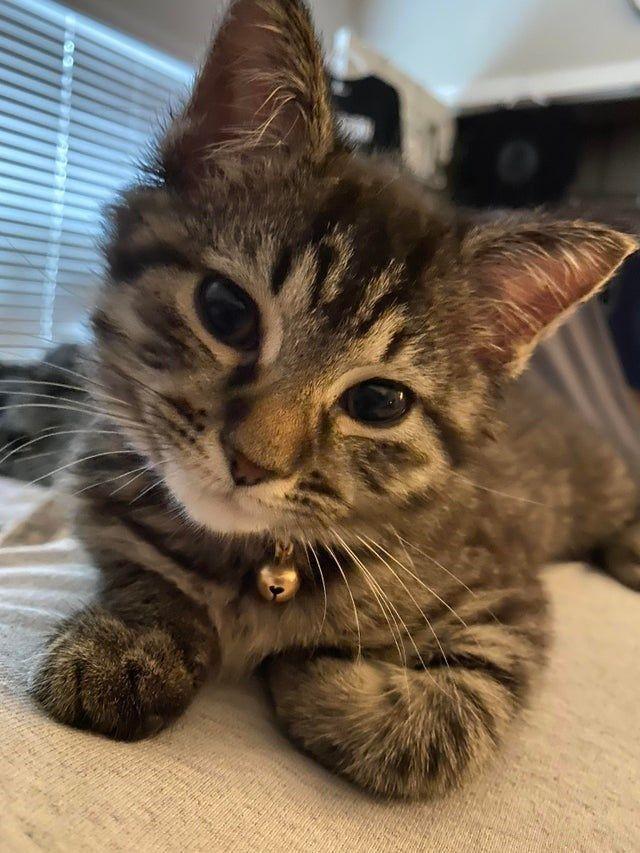
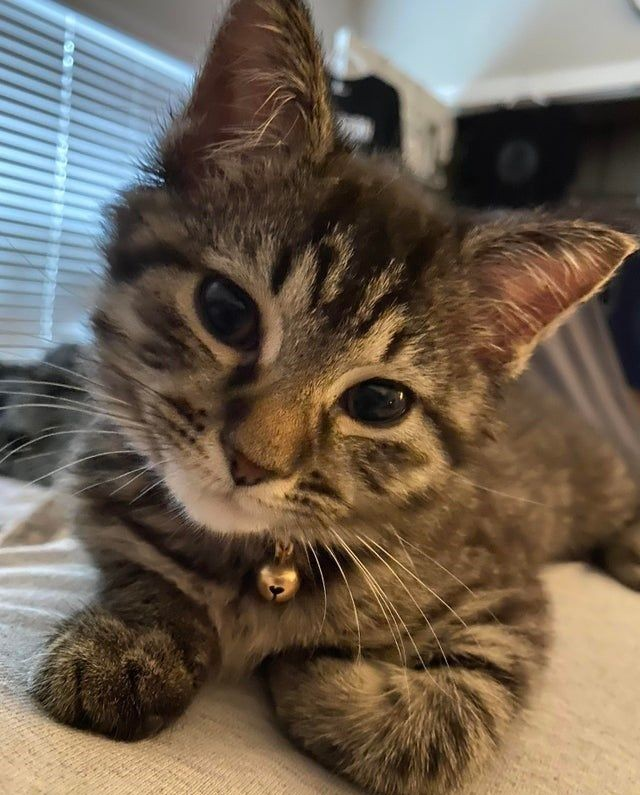
useState

diff --git a/src/components/Header.jsx b/src/components/Header.jsx
@@ -1,14 +1,14 @@
 import "./Header.css";
-export function Header(){
+export function Header({activeTab, setActiveTab}){
     return(
         <aside className="cafe-header">
             <h2 className="logo">Doce Miau Café</h2>
 
             <nav>
-                <div className="nav-item active">Home</div>
-                <div className="nav-item"> Menu</div>
-                <div className="nav-item"> Os gatos</div>
-                <div className="nav-item"> Pedidos</div>
+                 <div className={`nav-item ${activeTab ==="Home" ? 'active' :'' }`} onClick={()=>setActiveTab("Home")}> Home</div>
+                 <div className={`nav-item ${activeTab ==="Menu" ? 'active' :'' }`} onClick={()=>setActiveTab("Menu")}>  Menu</div>
+                 <div className={`nav-item ${activeTab ==="Gatos" ? 'active' :'' }`} onClick={()=>setActiveTab("Gatos")}>Os gatos</div>
+                 <div className={`nav-item ${activeTab ==="Pedidos" ? 'active' :'' }`} onClick={()=>setActiveTab("Pedidos")}>  Pedidos</div>
 
             </nav>
 

diff --git a/src/App.jsx b/src/App.jsx
@@ -1,13 +1,38 @@
 import './App.css';
+import { useState } from "react";
 import { Header } from "./components/Header";
+import {Home} from "./components/Home";
+import {gData} from "./components/data/Gatos"
+// import {Card} from "./components/Card"
 function App() {
+   const [activeTab, setActiveTab]=useState('Home')
+
   return (
     <div className="cafe-principal">
        <div className="cafe-main">
-      <Header/>
+      <Header activeTab={activeTab} setActiveTab={setActiveTab}/>
     </div>
+
+
+    <div className="banner-principal">
+    <Home/>
     </div>
-   
+
+
+    <div className="cafe-content">
+      {/* <h2>Conheça os nossos gatos</h2> */}
+          {/* <div className="cafe-grid">
+            {
+              gData.map((g)=> (<Card
+                key={g.id}
+                title = {g.title}
+                category={g.category}
+                imagem={g.imagem}
+              />))
+            }
+          </div> */}
+        </div>
+    </div>
   )
 }
 export default App;

diff --git a/src/components/data/Gatos.js b/src/components/data/Gatos.js
@@ -1,5 +1,9 @@
-export const gamesData =[
-    {id: 1, title: "Mochi", category: "Carinhoso, ama colo e dorme muito.", imagem: furby}, // criar objeto usando chaves{}
-    {id: 2, title: "Luna", category: "Curiosa e sempre pronta para brincar.", imagem: gaturro},
-    {id: 3, title: "Nino", category: "Ronronador, carente e adora petisco", imagem: penguin},
-]
+import mochi from "../../assets/gato2.jpg";
+import luna from "../../assets/gato3.jpg";
+import nino from "../../assets/gato1.jpg";
+
+export const gData =[
+    {id: 1, title: "Mochi", category: "Carinhoso, ama colo e dorme muito.", imagem: mochi}, // criar objeto usando chaves{}
+    {id: 2, title: "Luna", category: "Curiosa e sempre pronta para brincar.", imagem: luna },
+    {id: 3, title: "Nino", category: "Ronronador, carente e adora petisco", imagem: nino},
+];

diff --git a/src/components/Cards.css b/src/components/Cards.css
@@ -1,0 +1,38 @@
+.cafe-card {
+     background: #f3ede7;
+     border-radius: 20px;
+     width: 290px;
+     height: 250px;
+     text-align: center;
+     box-shadow: 0 4px 10px rgba(0, 0, 0, 0.1);
+     padding: 60px 20px 20px;
+     text-align: center;
+     position: relative;
+     top: 50px;
+}
+
+.cafe-grid {
+     display: flex;
+     justify-content: center;
+     gap: 30px;
+     flex-wrap: wrap;
+     padding: 40px;
+}
+
+.cafe-gatos {
+  width: 200px;
+  height: 200px;
+  border-radius: 50%;
+  object-fit: cover;
+  position: absolute;
+  top: -60px; /* faz ela subir */
+  left: 50%;
+  transform: translateX(-50%);
+}
+h4{
+
+}
+p{
+     position: relative;
+     top: 150px;
+}

diff --git a/src/components/Card.jsx b/src/components/Card.jsx
@@ -1,0 +1,14 @@
+import "./Cards.css";
+
+export function Card({title, category, imagem}){
+     return(
+          <div className="cafe-card">
+               <img className="cafe-gatos" src={imagem} alt={title}  />
+               <div className="card-info">
+                    <h4>{title}</h4>
+                    <p>{category}</p>
+                    <button className="play-btn"></button>
+               </div>
+          </div>
+     )
+}

diff --git a/src/components/Home.jsx b/src/components/Home.jsx
@@ -1,0 +1,10 @@
+import fundo from "../assets/café.jpg";
+import "./Home.css";
+
+export function Home(){
+  return(
+    <div className="banner">
+      <img className="fundo" src={fundo} alt="café" />
+    </div>
+  )
+}

diff --git a/src/App.css b/src/App.css
@@ -3,5 +3,6 @@
   padding: 0px;
 }
 body{
-    background-color: #FFF8F0;
+    background-color: #F3E5D8;
+    margin: 0px;
 }

diff --git a/src/components/Home.css b/src/components/Home.css
@@ -1,0 +1,6 @@
+.fundo{
+width: 500px;
+position: relative;
+left: 55vw;
+
+}
